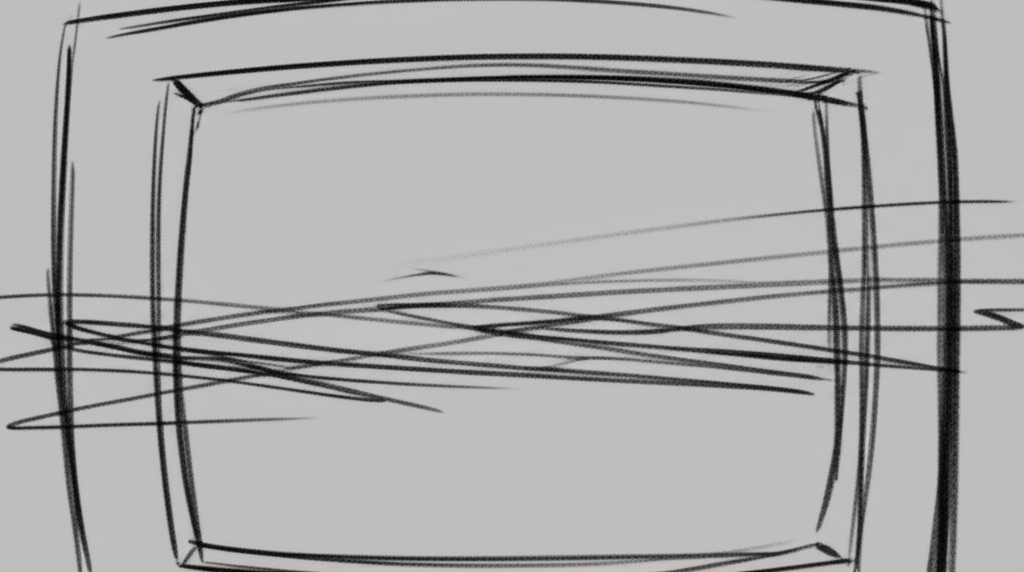
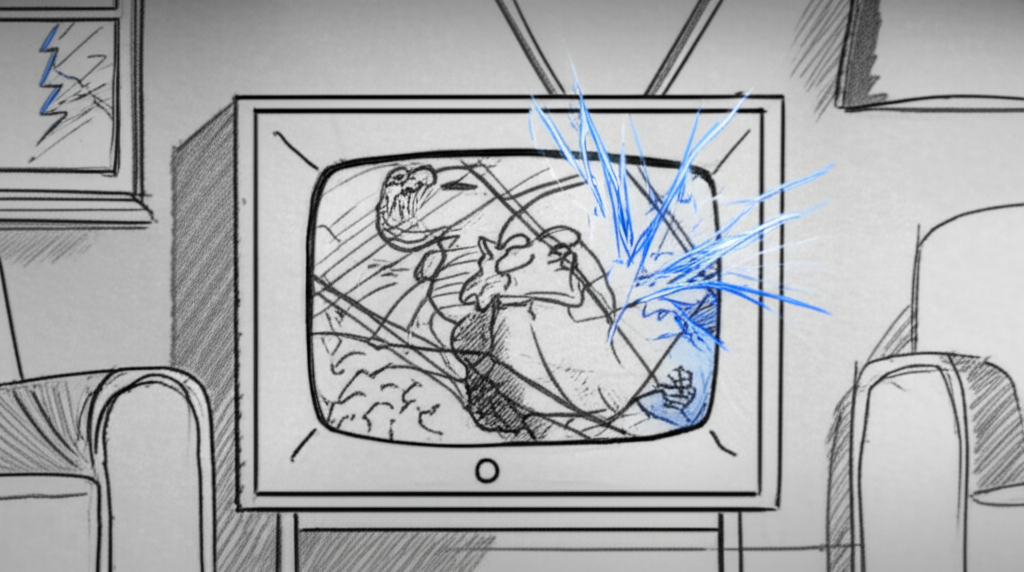
Fix low-scoring TV static panel (scene-01-panel-06)
The QA system flagged this panel with score 2.0 for showing pure TV
static instead of the intended scene content. Regenerated the panel
with an improved prompt that clearly shows:

- A TV set in the living room (not just a static fill)
- A cartoon dinosaur visible on screen being disrupted
- Interference lines and electrical distortion overlaying the cartoon
- Blue electrical flicker effects matching the time warp visual language
- Lightning flash reflection in the TV glass

The panel now properly foreshadows the supernatural time warp event
while maintaining the storyboard sketch style.

Added regeneration script (scripts/regenerate_tv_panel.py) for reference
and to document the fix approach for future QA remediation.

diff --git a/scripts/regenerate_tv_panel.py b/scripts/regenerate_tv_panel.py
@@ -1,0 +1,107 @@
+#!/usr/bin/env python3
+"""Regenerate the TV static panel (scene-01-panel-06) with improved prompt.
+
+This fixes the QA-flagged panel that showed pure TV static instead of a proper
+storyboard showing a TV with cartoon content being disrupted by interference.
+"""
+
+import os
+import sys
+from pathlib import Path
+
+from google import genai
+from google.genai import types
+
+# Initialize client
+client = genai.Client(api_key=os.environ.get("GEMINI_API_KEY"))
+
+# Output paths - update both locations
+STORYBOARD_DIR = Path(__file__).parent.parent / "storyboards" / "act1" / "panels"
+DOCS_DIR = Path(__file__).parent.parent / "docs" / "storyboards" / "act1" / "panels"
+FILENAME = "scene-01-panel-06.png"
+
+# Improved prompt - clearly shows a TV with interference, not pure static
+SKETCH_STYLE = """Rough pencil sketch storyboard panel, black and white,
+loose gestural lines, animation production thumbnail style,
+simple shapes for characters, focus on composition and staging,
+hand-drawn look with visible sketch lines, NOT rendered or polished,
+professional storyboard artist style like Pixar pre-production thumbnails,
+grayscale with hatching for shadows, 16:9 aspect ratio"""
+
+IMPROVED_PROMPT = f"""{SKETCH_STYLE},
+CLOSE-UP shot of a vintage TV set in a living room,
+TV screen showing a cartoon dinosaur that is being disrupted,
+diagonal interference lines and zigzag electrical distortion overlaying the cartoon image,
+the TV frame is clearly visible around the screen,
+blue electrical flicker effect indicated with sketch lines emanating from screen,
+lightning flash from outside window reflected in TV glass,
+ominous foreshadowing mood, supernatural interference beginning,
+NOT pure static - cartoon content still visible behind the distortion"""
+
+
+def generate_image(prompt: str, output_path: Path) -> bool:
+    """Generate an image using Gemini 2.0 Flash."""
+    print(f"Generating panel to: {output_path}")
+    print(f"  Prompt preview: {prompt[:100]}...")
+
+    try:
+        response = client.models.generate_content(
+            model="gemini-2.0-flash-exp-image-generation",
+            contents=f"Generate an image: {prompt}",
+            config=types.GenerateContentConfig(
+                response_modalities=["IMAGE", "TEXT"],
+            ),
+        )
+
+        # Extract and save the image from the response
+        for part in response.candidates[0].content.parts:
+            if part.inline_data is not None:
+                image_data = part.inline_data.data
+                with open(output_path, "wb") as f:
+                    f.write(image_data)
+                print(f"  ✓ Saved to {output_path}")
+                return True
+
+        print("  ✗ No image in response")
+        return False
+
+    except Exception as e:
+        print(f"  ✗ Error: {e}")
+        return False
+
+
+def main():
+    """Regenerate the TV panel."""
+    print("=" * 60)
+    print("Regenerating Scene 1, Panel 6 - TV Flickering")
+    print("=" * 60)
+    print()
+    print("Issue: Previous panel showed pure TV static")
+    print("Fix: Generate proper storyboard showing TV with interference")
+    print()
+
+    # Ensure output directories exist
+    STORYBOARD_DIR.mkdir(parents=True, exist_ok=True)
+    DOCS_DIR.mkdir(parents=True, exist_ok=True)
+
+    # Generate to the storyboards directory (main panel location)
+    success = generate_image(IMPROVED_PROMPT, STORYBOARD_DIR / FILENAME)
+
+    if success:
+        # Copy to docs directory as well for website
+        import shutil
+        src = STORYBOARD_DIR / FILENAME
+        dst = DOCS_DIR / FILENAME
+        shutil.copy(src, dst)
+        print(f"  ✓ Also copied to {dst}")
+
+    print()
+    print("=" * 60)
+    print("Done!" if success else "Failed!")
+    print("=" * 60)
+
+    return 0 if success else 1
+
+
+if __name__ == "__main__":
+    sys.exit(main())
